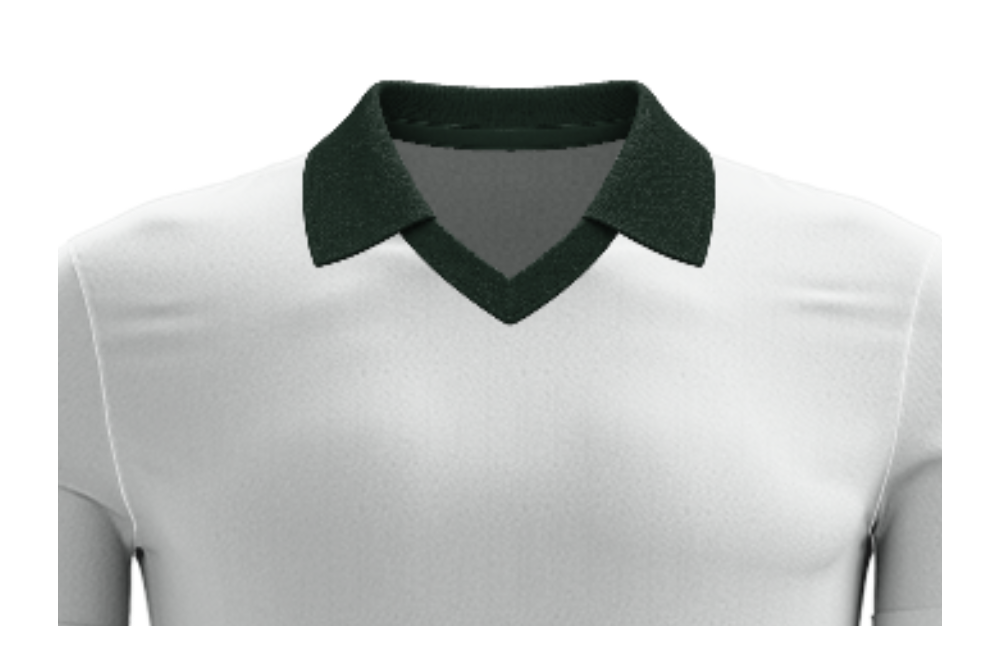
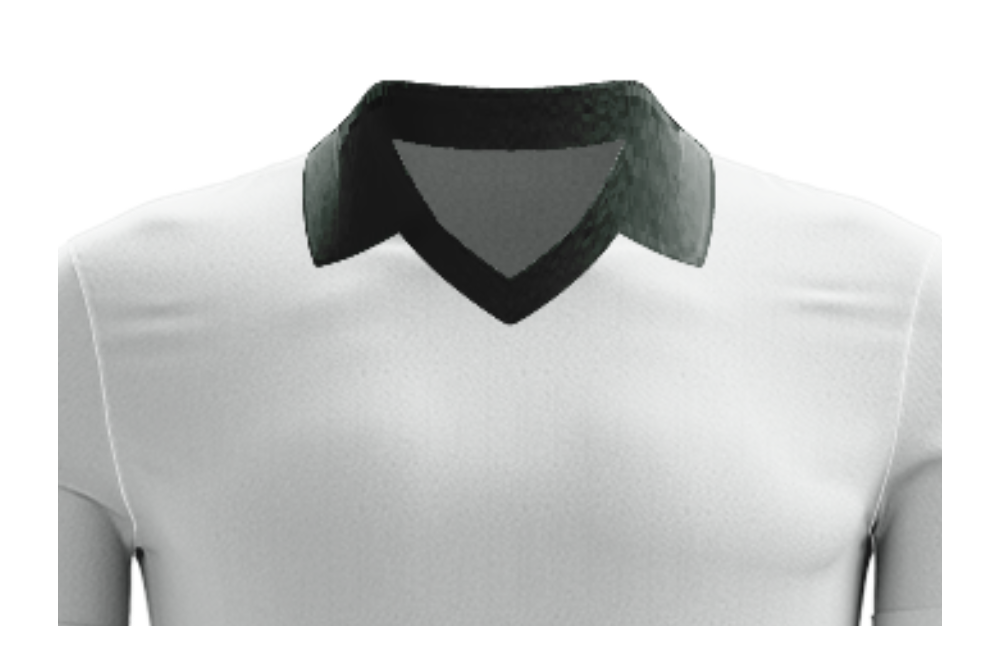
fix(bocetos): adaptar material de cuellos al tejido y luz del PSD

Changed region(s): [[0.589, 0.1231, 0.713, 0.4308], [0.279, 0.1231, 0.434, 0.3692], [0.372, 0.3385, 0.403, 0.3692]]

diff --git a/platform/bocetos/prototypes/football-own-v1/collar-material.js b/platform/bocetos/prototypes/football-own-v1/collar-material.js
@@ -1,0 +1,66 @@
+import {parseColor} from './material.js';
+
+// Normalized filtering separates the generated folds from its oversized knit.
+function smoothField(material,radius){
+  const {width:w,height:h,alpha,gray}=material,stride=w+1;
+  const values=new Float64Array(stride*(h+1)),weights=new Float64Array(values.length);
+  for(let y=0;y<h;y++){
+    let sum=0,weight=0;
+    for(let x=0;x<w;x++){
+      const p=y*w+x,k=(y+1)*stride+x+1;sum+=gray[p]*alpha[p];weight+=alpha[p];
+      values[k]=values[k-stride]+sum;weights[k]=weights[k-stride]+weight;
+    }
+  }
+  const result=new Float32Array(w*h);
+  for(let y=0;y<h;y++)for(let x=0;x<w;x++){
+    const left=Math.max(0,x-radius),right=Math.min(w,x+radius+1),top=Math.max(0,y-radius),bottom=Math.min(h,y+radius+1);
+    const a=top*stride+left,b=top*stride+right,c=bottom*stride+left,d=bottom*stride+right;
+    const weight=weights[d]-weights[b]-weights[c]+weights[a];
+    result[y*w+x]=weight?(values[d]-values[b]-values[c]+values[a])/weight:180;
+  }
+  return result;
+}
+
+// Map only actual fabric pixels, skipping the empty opening of the source band.
+function sourceMap(target,source){
+  const columns=(material,threshold)=>Array.from({length:material.width},(_,x)=>{
+    const spans=[];let active=null;
+    for(let y=0;y<material.height;y++){
+      if(material.alpha[y*material.width+x]>threshold){if(!active){active=[];spans.push(active);}active.push(y*material.width+x);}
+      else active=null;
+    }
+    return spans;
+  });
+  const original=columns(source,96),shape=columns(target,0),mapped=new Int32Array(target.alpha.length);mapped.fill(-1);
+  for(let x=0;x<target.width;x++){
+    const wanted=Math.min(source.width-1,Math.floor((x+.5)*source.width/target.width));let samples=original[wanted];
+    if(!samples.length)for(let radius=1;radius<source.width;radius++){
+      samples=original[wanted-radius]?.length?original[wanted-radius]:original[wanted+radius]?.length?original[wanted+radius]:[];if(samples.length)break;
+    }
+    if(!samples.length||!shape[x].length)continue;
+    const spans=shape[x];
+    for(let segment=0;segment<spans.length;segment++){
+      // Use the outward-facing band, never the differently lit inner strip.
+      const pixels=spans[segment],band=samples[samples.length-1];
+      for(let rank=0;rank<pixels.length;rank++)mapped[pixels[rank]]=band[Math.round(rank/Math.max(1,pixels.length-1)*(band.length-1))];
+    }
+  }
+  return mapped;
+}
+
+export function matchCollarMaterial(target,reference,shade){
+  const mapping=sourceMap(target,reference),soft=smoothField(target,Math.max(2,Math.round(target.width/30))),broad=smoothField(target,Math.max(4,Math.round(target.width/8)));
+  const folds=Float32Array.from(soft,(value,p)=>Math.max(.88,Math.min(1.10,Math.sqrt(value/Math.max(1,broad[p])))));
+  const {burn,screen}=reference.psdLights;
+  target.paint=settings=>{
+    const color=parseColor(settings.color),data=new Uint8ClampedArray(target.alpha.length*4),palette=new Uint8ClampedArray(reference.alpha.length*3);
+    for(let q=0;q<reference.alpha.length;q++)if(reference.alpha[q])palette.set(shade(color,burn.subarray(q*4,q*4+4),screen.subarray(q*4,q*4+4)),q*3);
+    for(let p=0;p<target.alpha.length;p++)if(target.alpha[p]&&mapping[p]>=0){
+      const q=mapping[p]*3,j=p*4;
+      data[j]=palette[q]*folds[p];data[j+1]=palette[q+1]*folds[p];data[j+2]=palette[q+2]*folds[p];data[j+3]=target.alpha[p];
+    }
+    return {width:target.width,height:target.height,data};
+  };
+  target.materialSource='football-basic-original-collar';
+}
+

diff --git a/platform/bocetos/prototypes/football-own-v1/basic-renderer.js b/platform/bocetos/prototypes/football-own-v1/basic-renderer.js
@@ -2,6 +2,7 @@ import {createPrototypeRenderer} from './renderer.js';
 import {largestComponent,parseColor} from './material.js';
 import {createAnchorSchema} from './anchors.js';
 import {approvedFrontAnchors} from './basic-front-defaults.js';
+import {matchCollarMaterial} from './collar-material.js';
 
 export const basicIdentity={model:'football-basic-v1',bodyRevision:'original-psd-collars-v1'};
 export const basicAnchorSchema=createAnchorSchema(basicIdentity);
@@ -65,7 +66,7 @@ export function createBasicCollarRenderer(makeCanvas){
           }
           return {width:region.width,height:region.height,data};
         };
-        result.repairedNeck=repair;return result;
+        result.repairedNeck=repair;result.psdLights={burn,screen};return result;
       }
       prepared.body[side]=material(area,coverage,'body');prepared.round[side]=material(neck,collarAlpha,'collar');
       const body=prepared.body[side],centerX=(neck.x+neck.width/2-area.x)/area.width,top=(neck.y-area.y)/area.height;
@@ -77,6 +78,8 @@ export function createBasicCollarRenderer(makeCanvas){
       for(const type of ['v','polo']){const neck=renderer.materials[type][side],width=round.width*(type==='polo'?1.16:1);body.neckAnchors[type]={centerX:round.centerX,top:round.top,width,height:width*body.width*neck.height/neck.width/body.height};}
     }
     for(const type of ['round','v','polo'])renderer.materials.body.front.neckAnchors[type]={...approvedFrontAnchors[type]};
+    const original=renderer.materials.round.front;
+    for(const type of ['v','polo'])matchCollarMaterial(renderer.materials[type].front,original,psdLight);
   }
   return {...renderer,load};
 }

diff --git a/platform/docs/evidencias/TASK-20261020-006_PANEL_MOCKUPS.md b/platform/docs/evidencias/TASK-20261020-006_PANEL_MOCKUPS.md
@@ -172,3 +172,31 @@ No se infieren capas editables ni se agrega una variante sin el archivo original
 Checkpoint: SPORTEX_CLOSE=PASS, perfil local. Log privado
 sportex-approved-collar-defaults-close.log. Sigue pendiente integración al kit
 del laboratorio; no se publica automáticamente esta geometría.
+
+## Luces y textura de V/polo
+
+Fito aclara que el problema visual no es la unión: son luces y tejido.
+Causa confirmada en renderer: round.paint aplica Linear Burn/Screen del PSD;
+V/polo usaban materialPixel del gris generado, con brillo añadido y otra trama.
+
+collar-material.js toma Burn/Screen de la cara exterior del cuello original y
+los aplica a las formas V/polo, saltando las aberturas de la banda. La trama
+generada se separa con filtrado normalizado por alfa; se conserva solo un
+relieve suave acotado de pliegues. No cambia alfa, tamaño, posición, interior,
+round original ni espalda. Es transferencia 2D de apariencia, no render físico.
+Los originales PNG tampoco se editan. La paleta de iluminación se calcula por
+píxel del material original y se reutiliza para evitar trabajo en cada píxel
+generado; los cachés existentes siguen acotados.
+
+Tres tests focales PASS: trama de alta frecuencia no introduce brillo artificial,
+alfa/bordes suaves/aberturas se conservan y trabajo de luz acotado a la fuente.
+verify-basic conserva6 checks PASS, incluyendo JSON aprobado exacto y espalda
+inmutable. Preparación1264ms; pares183/29/19ms con Canvas nativo en este equipo.
+Inspección de renders reales: primera transferencia mezclaba banda interior y
+exterior; se corrigió el muestreo a la cara exterior. Sin revisión visual del
+navegador ni nuevas generaciones. Pendiente revisión de apariencia por Fito.
+Suite completa224 tests PASS,0 fallos, log privado sportex-collar-material-tests.log.
+HTTP del módulo de material PASS en4321. Sin cambios de perfiles del navegador.
+Checkpoint SPORTEX_CLOSE=PASS, perfil local. Log privado
+sportex-collar-material-close.log. Revertir este checkpoint restaura la apariencia
+anterior sin modificar el JSON de anclajes. Sin deploy.

diff --git a/platform/bocetos/prototypes/football-own-v1/README.md b/platform/bocetos/prototypes/football-own-v1/README.md
@@ -40,7 +40,11 @@ en `approved-anchors.json`. La configuración local posterior tiene prioridad.
 
 La vista actual lee el kit PSD existente en `../../public/assets/psd-kit/`.
 El redondo se registra con su máscara original. El V y el polo usan materiales
-neutros separados. Las máscaras de mangas y luces siguen siendo las del kit.
+con la forma separada y la apariencia del cuello original del PSD. Se sustituye
+la trama generada por la luz y el tejido de la cara exterior de esa banda;
+solo se conserva el relieve suave de los pliegues. Los anclajes y el alfa no
+cambian. Es una transferencia 2D aproximada, no un nuevo render físico.
+Las máscaras de mangas y luces siguen siendo las del kit.
 Solo la banda/interior del cuello anterior reciben tejido de reemplazo,
 muestreado en la fila de tejido inmediatamente inferior. Hay que revisar ese
 encaje antes de integrar al laboratorio. No se afirma reconstrucción perfecta

diff --git a/platform/docs/SESSION_STATE.md b/platform/docs/SESSION_STATE.md
@@ -62,7 +62,7 @@ Panel Mockups con borrador, prueba y configuracion inicial versionada del modelo
 - Tarea: `TASK-20261020-006`.
 - Fecha: `2026-10-20`.
 - Fuente: `docs/evidencias/TASK-20261020-006_PANEL_MOCKUPS.md`.
-- JSON frontal aprobado como defaults locales; espalda fija,6 checks PASS. Falta integracion y QA panel.
+- Material V/polo adaptado al PSD; anclajes aprobados y espalda conservados. Falta integracion y QA visual.
 
 ## Riesgos
 
@@ -78,4 +78,4 @@ Panel Mockups con borrador, prueba y configuracion inicial versionada del modelo
 
 ## Siguientes acciones
 
-- Integrar cuellos aprobados al kit local; completar QA visual.
+- Revisar material de cuellos e integrar al kit; QA visual.

diff --git a/platform/bocetos/DESIGN.md b/platform/bocetos/DESIGN.md
@@ -248,6 +248,8 @@ solo geometría en el navegador; exportar no incluye guías. Hereda la identidad
 SPORTEX y todavía requiere QA de interacción visual en navegador.
 En Fútbol básico solo se edita el frente. La espalda muestra el cuello original
 sin tiradores ni cambios de forma al alternar variantes o importar anclajes.
+V/polo toman material de la cara exterior del cuello PSD. La trama generada
+se filtra; quedan pliegues suaves, sin modificar geometría aprobada ni espalda.
 
 Los gráficos importados se reducen con antialias y filtro alto, conservando
 fuente, forma y transparencia. Los contornos rasterizan a la densidad de salida

diff --git a/platform/docs/DECISIONES.md b/platform/docs/DECISIONES.md
@@ -299,3 +299,5 @@ Registro durable; las decisiones reemplazadas se marcan y el negocio queda en DE
 - Fito entrega el JSON: sus tres frentes pasan a ser defaults del visor local.
   Geometria trasera ignorada; mantiene cuello original. Nueva captura de polo
   bicolor es solo referencia; no se ha pedido preparar otra variante.
+- Fito aclara que el desajuste es de luces/tejido. Mantener anclajes aprobados;
+  V/polo toman apariencia de la banda original del PSD, con pliegues suavizados.

diff --git a/platform/docs/TASKS/active/TASK-20261020-006-panel-mockups.md b/platform/docs/TASKS/active/TASK-20261020-006-panel-mockups.md
@@ -54,8 +54,9 @@ Cuellos: defaults locales aprobados; falta integracion al kit del laboratorio.
 ## registro_de_avances
 
 Panel/setup PASS. Cuellos locales sobre kit actual; anclajes editables y JSON.
-221 tests;6 checks de montaje PASS. QA navegador pendiente.
+224 tests;6 checks de montaje PASS. QA navegador pendiente.
 JSON frontal de Fito aplicado como defaults; espalda original fija.
+Material V/polo adaptado al cuello PSD; geometria aprobada conservada.
 
 ## decisiones
 
